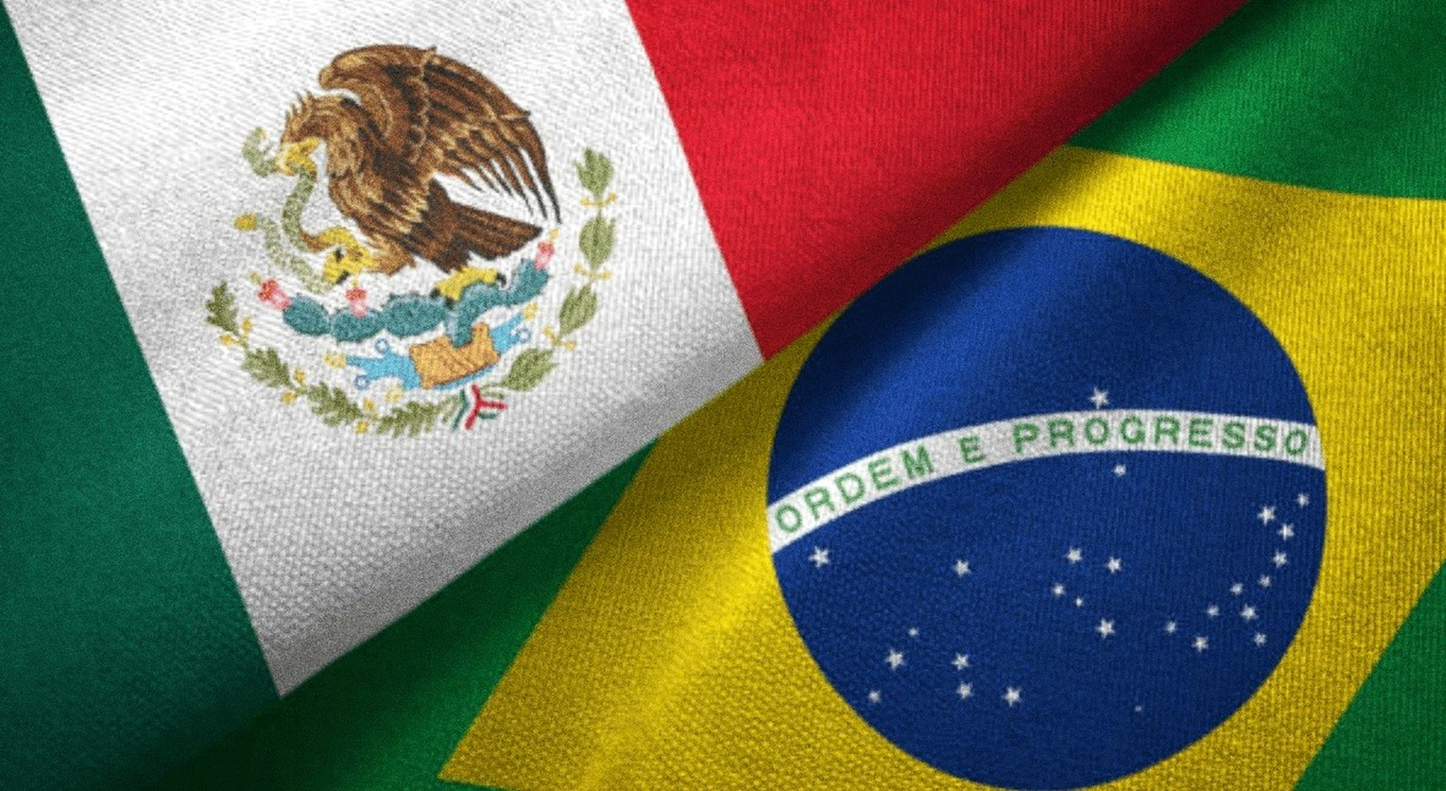
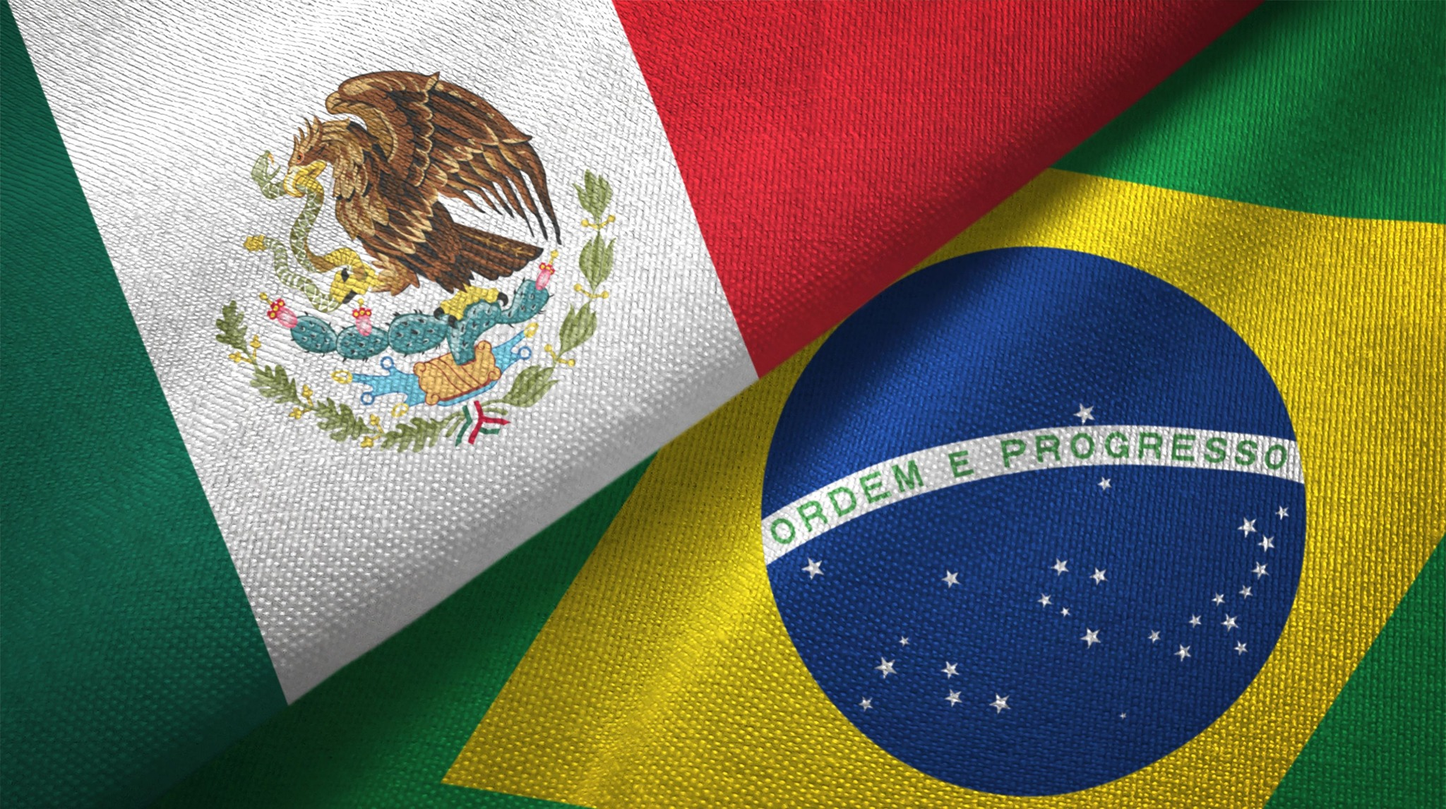
Pemex-Petrobras: replace featured with Mexico-Brazil flags (2048)

diff --git a/translations/2026-08-14-pemex-petrobras/article.html b/translations/2026-08-14-pemex-petrobras/article.html
@@ -1,5 +1,5 @@
-<!-- wp:image {"id":19255,"sizeSlug":"large"} -->
-<figure class="wp-block-image size-large"><img src="https://mexicosolidarity.com/wp-content/uploads/2026/08/2026-08-14-pemex-petrobras-large.jpg" alt="President Sheinbaum and President Lula hold a video call" class="wp-image-19255"/><figcaption class="wp-element-caption">Photo: iStock</figcaption></figure>
+<!-- wp:image {"id":19263,"sizeSlug":"large"} -->
+<figure class="wp-block-image size-large"><img src="https://mexicosolidarity.com/wp-content/uploads/2026/08/2026-08-14-pemex-petrobras-large.jpg" alt="Flags of Mexico and Brazil" class="wp-image-19263"/><figcaption class="wp-element-caption">Photo: iStock</figcaption></figure>
 <!-- /wp:image -->
 
 <!-- wp:paragraph -->
